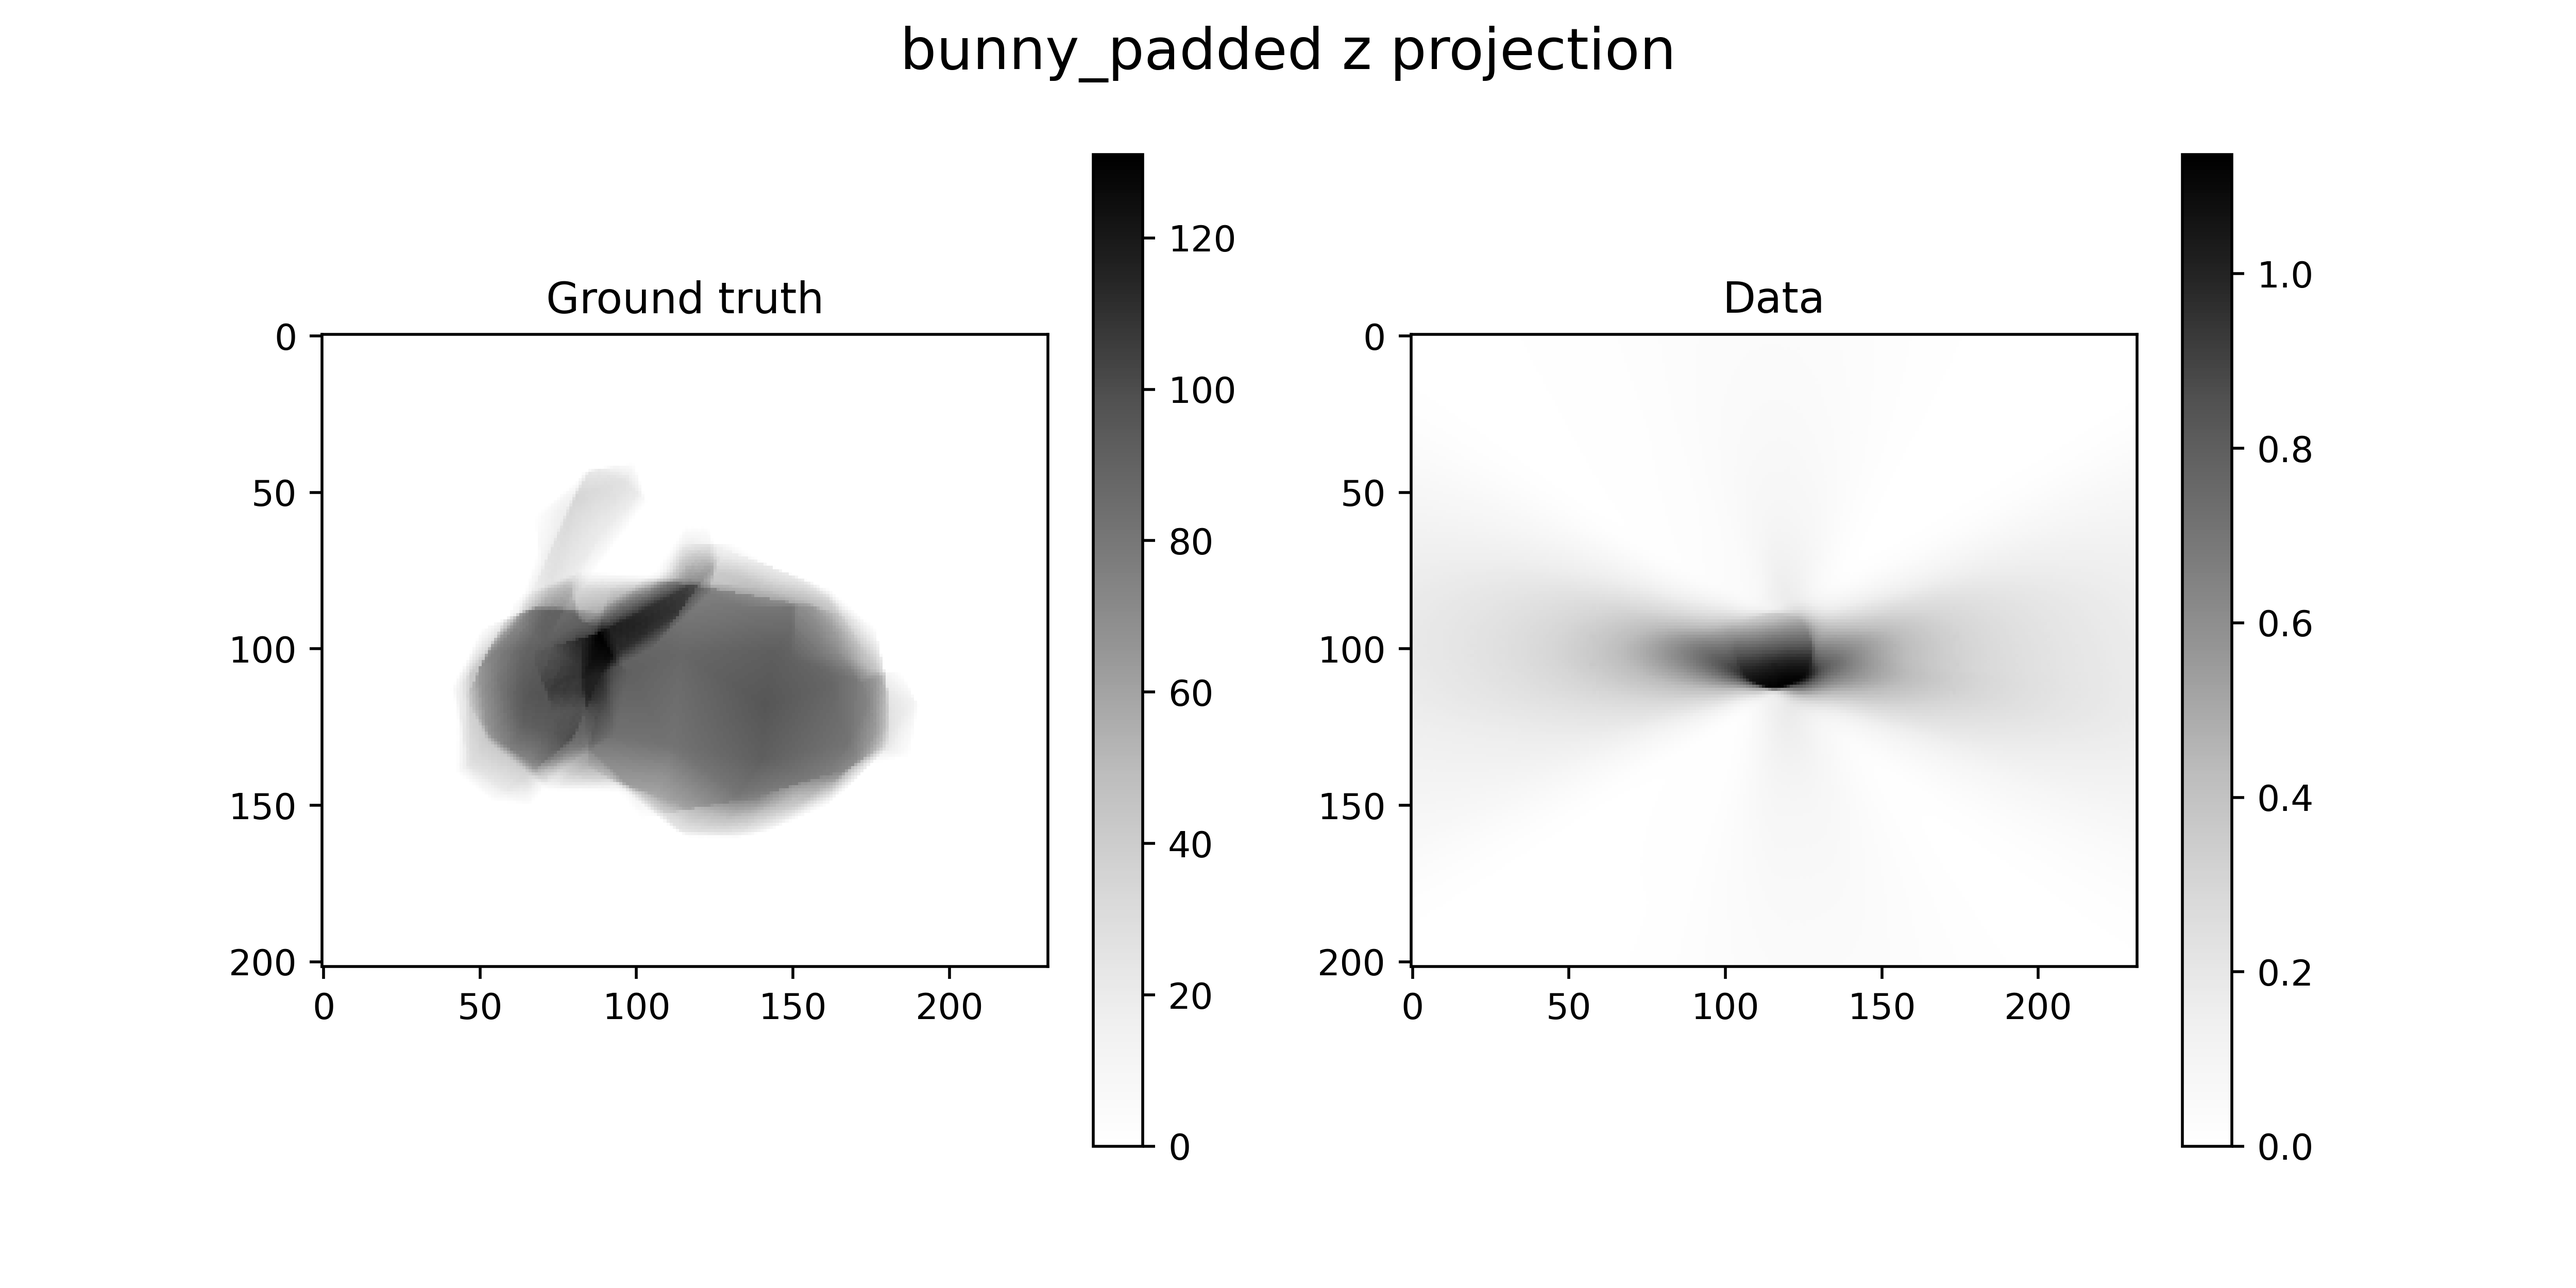
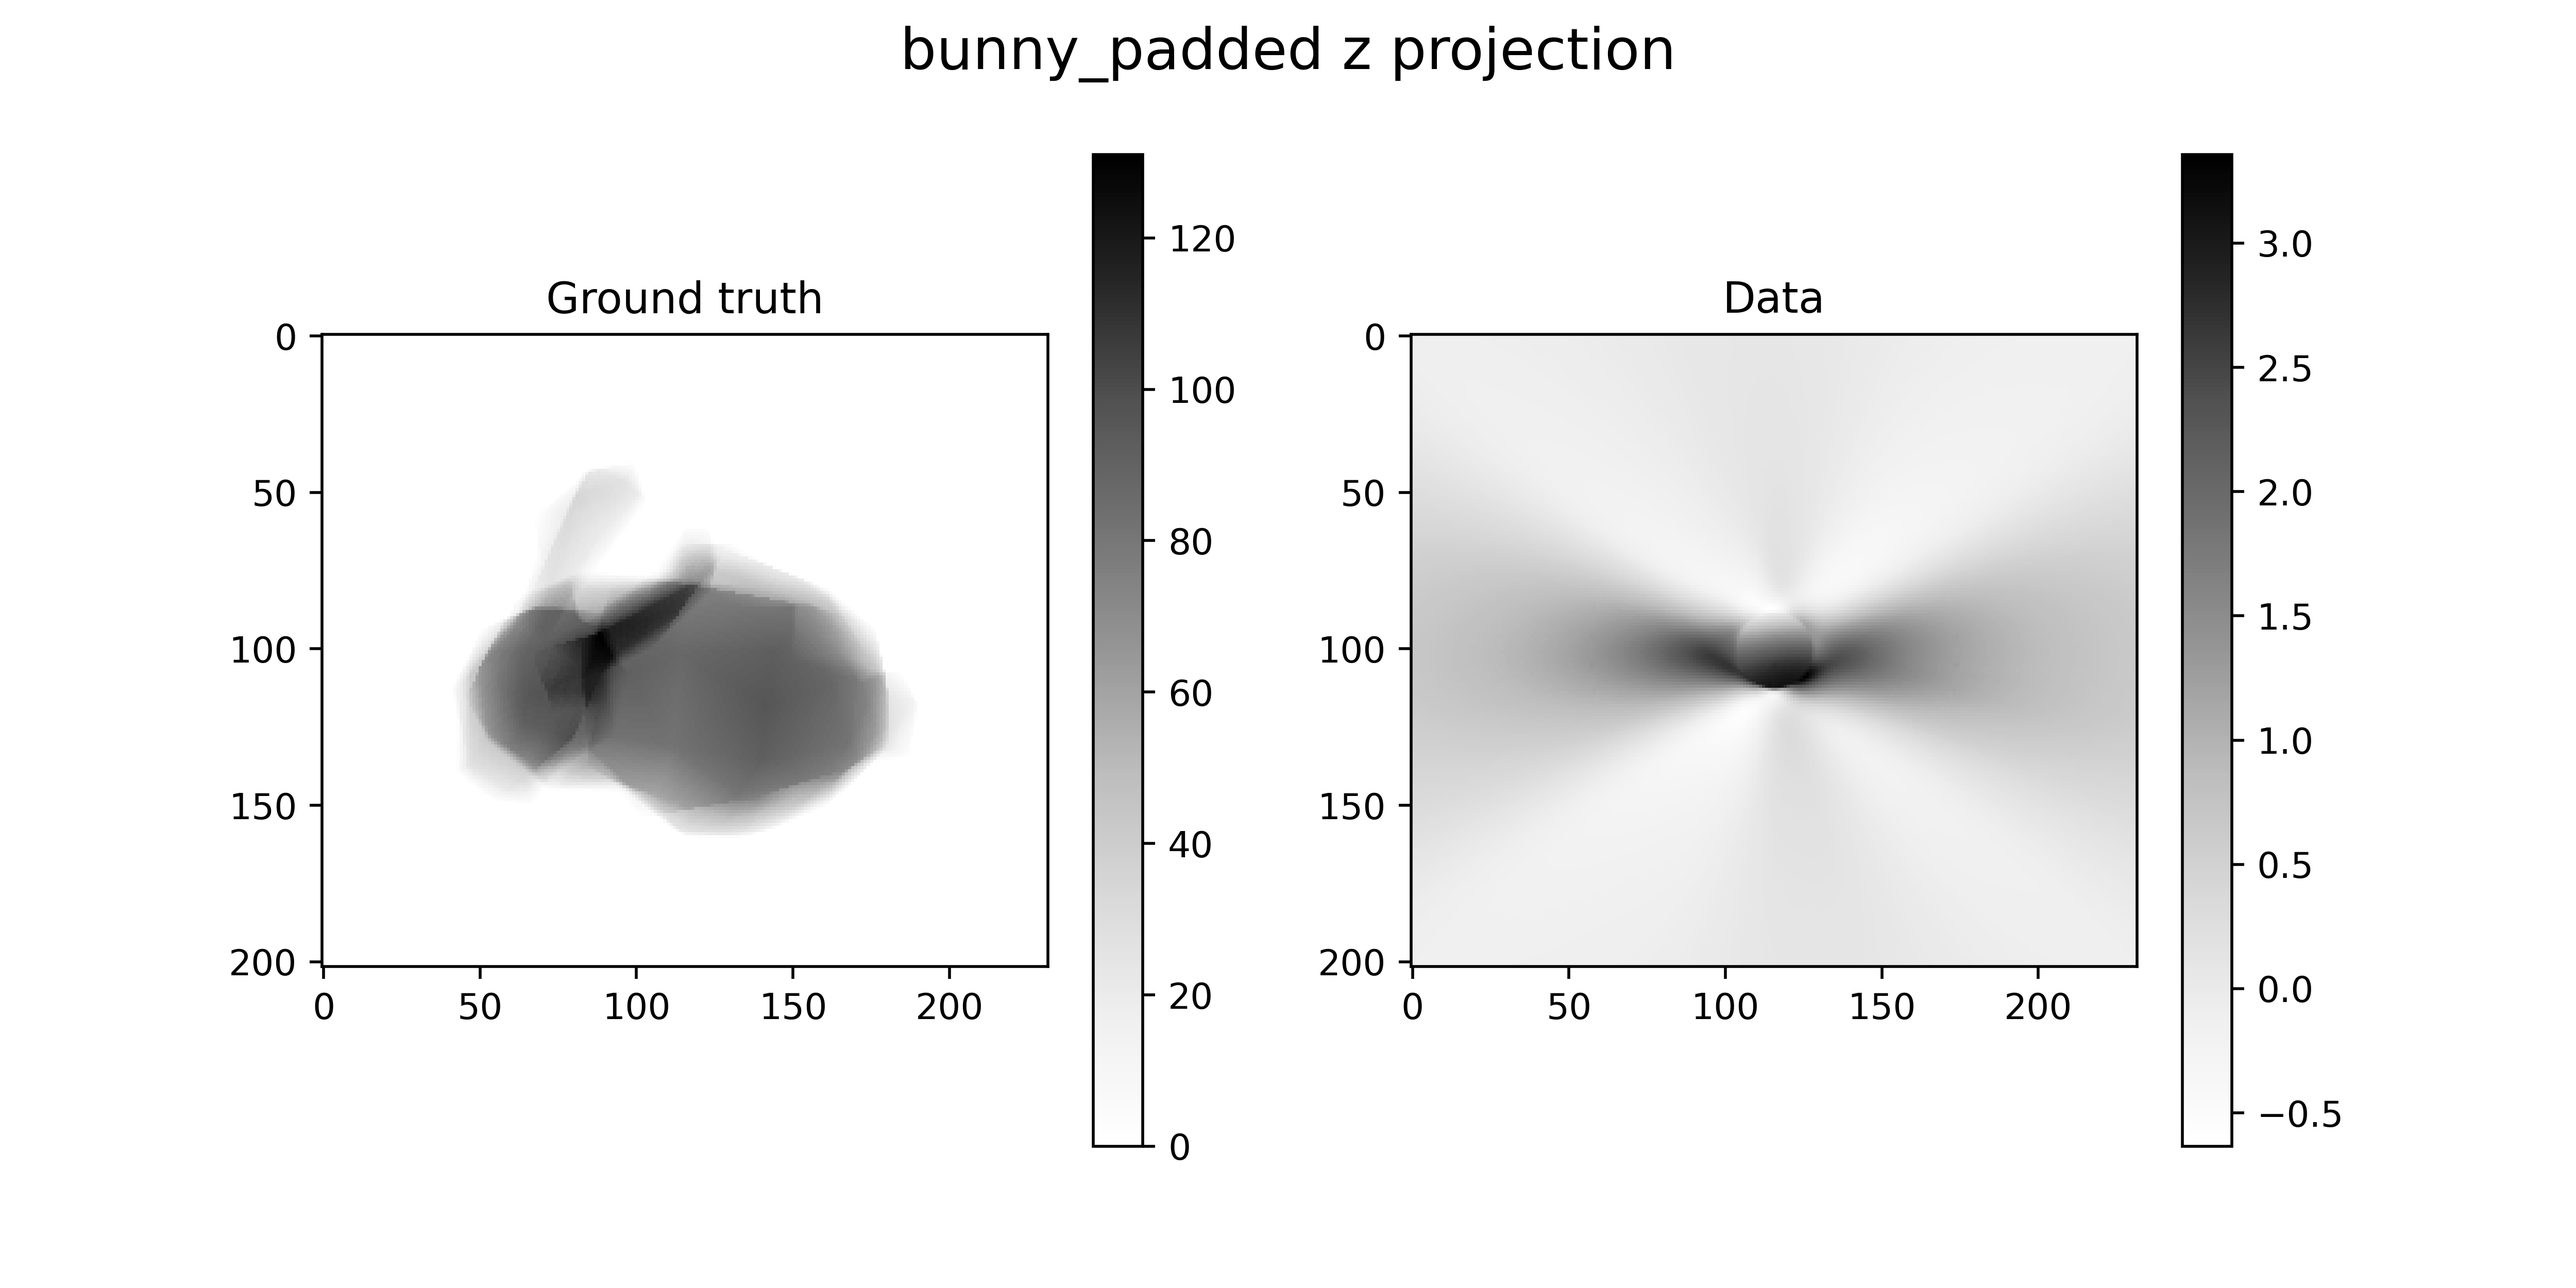
[xray] try bigger voxel size?

diff --git a/src/pyxu/experimental/xray/3dtests/bhatt_method_weighted_interpolated/bhatt_3d_weighted_interpolated.py b/src/pyxu/experimental/xray/3dtests/bhatt_method_weighted_interpolated/bhatt_3d_weighted_interpolated.py
@@ -20,11 +20,11 @@ warnings.filterwarnings("ignore")
 
 dh = 0.9
 dl = 0.5
-num_n = 1500  # 3000
+num_n = 3000  # 3000
 bin_size = 1
 slm_pixels_height = 50  # 100
 slm_pixels_width = 100  # 200
-lambda_ = 0.4
+lambda_ = 4
 diff_lip = 0.5
 
 
@@ -50,9 +50,8 @@ class BhattLossWeighted(pxa.DiffFunc):
         pos_orth = PositiveOrthant(dim_shape=xrt.dim_shape)
         fg_posort = pos_orth.argshift(fg_argshift).moreau_envelope(mu1)
         bg_posort = pos_orth.argshift(bg_argshift).argscale(-1).moreau_envelope(mu1)
-        s = Stencil(
-            dim_shape=xrt.dim_shape, kernel=[np.r_[1], np.r_[1], np.r_[1, 1, 1]], center=[0, 0, 2]  # TODO generalize
-        )
+        nb_ones = int(np.ceil(ground_truth.shape[-1] / slm_pixels_height))
+        s = Stencil(dim_shape=xrt.dim_shape, kernel=[np.r_[1], np.r_[1], np.ones(nb_ones)], center=[0, 0, nb_ones - 1])
         self._inner_op = (fg_posort * fg_constant + bg_posort * bg_constant) * weighting * s * xrt.T
         self._xrt = xrt
         self._reg = lambda_ * PositiveOrthant(xrt.codim_shape).moreau_envelope(mu2)
@@ -135,16 +134,16 @@ print("Loading ground truth...")
 ground_truth = bunny_padded()
 chosen_gt = "bunny_padded"
 refraction = False
-optimize_save = True
+optimize_save = False
 
-cylinder_inner_radius = 15.5e-3
-cylinder_outer_radius = 16.5e-3
-cylinder_max_height = 0.0105216 * 3
+cylinder_inner_radius = 155  # 15.5e-3
+cylinder_outer_radius = 165  # 16.5e-3
+cylinder_max_height = 0.0105216 * 3 * 1e4  # 0.0105216 * 3
 cylinder_min_height = 0
 assert cylinder_inner_radius < cylinder_outer_radius
 
 origin = 0
-vox_side = 13.7e-5
+vox_side = 1  # 13.7e-5
 max_height = cylinder_max_height
 max_offset = cylinder_outer_radius / 10
 pitch = vox_side * np.array([1.0, 1.0, 1.0])
@@ -305,7 +304,7 @@ def run():
         alpha = zarr.load(save_file)
         img = bhatt.op.adjoint(alpha)
 
-    copy, nonzero_planes = zero_order_interp(img)
+    img, nonzero_planes = zero_order_interp(img)
 
     show_projection_against_gt(
         0, img, ground_truth, f"{chosen_gt} x projection", f"results/{chosen_gt}_x_prog_normalized.png"
